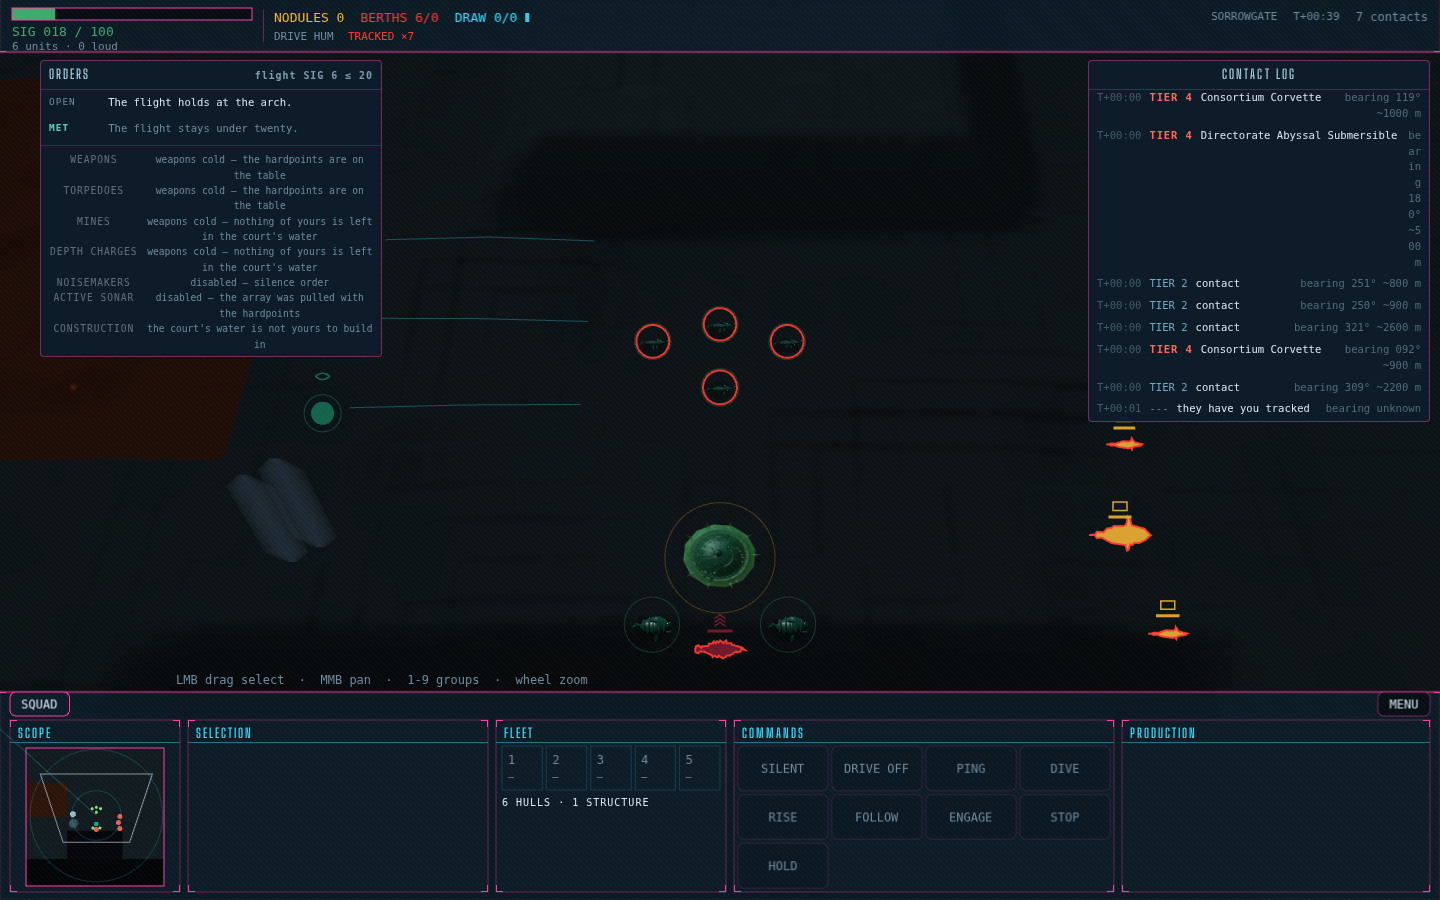
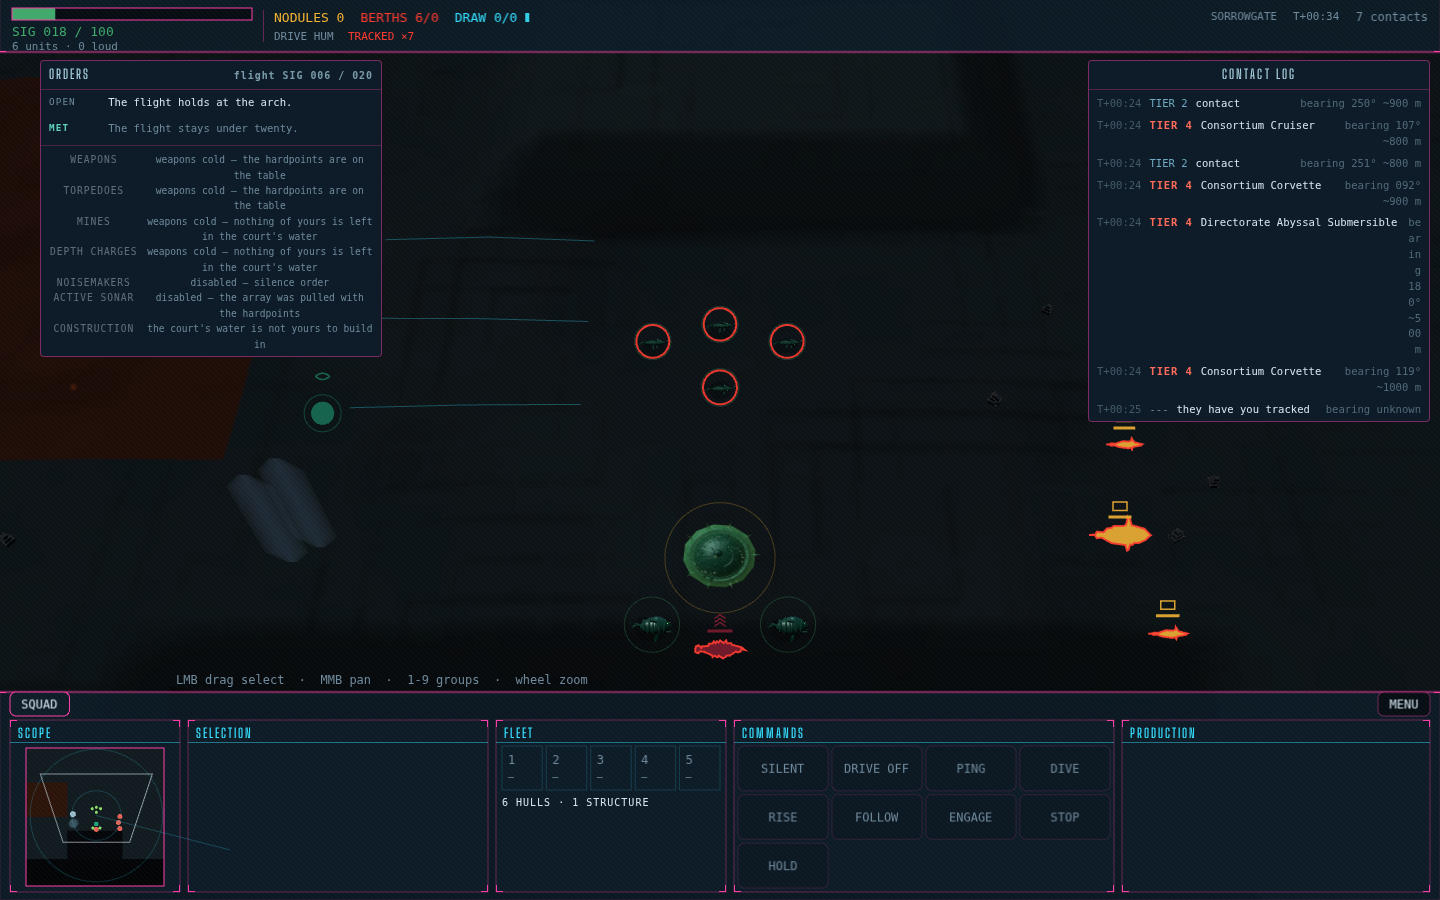
fix(mission): the chip states a value, not a claim that can be false
Round 2, on the critic's verdict. Four findings, all confirmed and all fixed.

The chip said `flight SIG 6 ≤ 25`, and in breach that renders a false
proposition — `flight SIG 26 ≤ 25` asserts something untrue at exactly
the moment the player most needs to read it, which CLAUDE.md calls
confusion rather than dread. docs/ui-ux.md §3 already fixes this
repository's form for a live SIG figure against a limit: `SIG 042 / 100`,
a value against its scale rather than a relation. The chip now follows
it, zero-padded for §3's own stated reason — the figure moves (the Dome's
watch reads 22 on its first pass and 5 after) inside a space-between
header, so an unpadded reading shuffles the row under itself every time a
digit comes or goes. Both new panel cases had passed a compliant reading
only, so the shape at the one interesting moment was untested; there is a
breach case and a digit-width case now.

BoundSig.peak justified rounding up by asserting that every
silenceCeilingSig is whole. Nothing held that. A ceiling of 7.5 authored
next month, with a bound peak of 7.2, would read 8 — a breach — while the
ledger forgave it, and all three guards stayed green. The registry loop
now holds the premise, and its converse: an array lent against a ceiling
of 100 would put `flight SIG 022 / 100` on screen, an order that is not
one. The sweep also brackets each mission's own authored ceiling, so the
numbers actually shipping are exercised for agreement rather than only
the ones the test invents.
[…]

diff --git a/packages/backend/test/silenceReadout.test.ts b/packages/backend/test/silenceReadout.test.ts
@@ -61,9 +61,11 @@ interface Pass {
  * Drive a mission a few Echo passes and keep the player's own snapshot and the
  * ledger's debt from each.
  *
- * Two passes is enough for everything here and matters for the suite's wall
- * clock: the mission tests already play whole missions out at 60 Hz and are
- * most of its time, and nothing asserted below needs a mission played.
+ * A handful of passes, never a mission played out: the mission tests already
+ * run whole missions at 60 Hz and are most of the suite's time, and nothing
+ * asserted below needs one. Three or four is enough because everything here is
+ * a property of a single pass — the reading beside the debt it produced —
+ * rather than of a mission's arc.
  */
 function passes(match: Match, playerSlot: number, count: number): Pass[] {
   const out: Pass[] = [];
@@ -97,6 +99,29 @@ describe('the silence order reads out the set it enforces (#623 §8)', () => {
         assert.ok(
           runsLedger(mission),
           `${mission.id} states a ceiling of ${mission.silenceCeilingSig} but lends no array`
+        );
+      }
+      if (runsLedger(mission)) {
+        // The premise the whole readout rests on, asserted rather than assumed.
+        // `BoundSig.peak` rounds *up* and claims that is safe because every
+        // ceiling is a whole number — `ceil(peak) > ceiling` and
+        // `peak > ceiling` then agree on every input. Author a ceiling of 7.5
+        // and that stops being true: a bound peak of 7.2 reads 8, which is over
+        // 7.5, while the ledger forgives it. Nothing else in the tree would
+        // notice, because the per-mission tests pin the five numbers shipping
+        // today and a sixth authored next month has no test until someone
+        // writes one — which is the gap this criterion exists to close.
+        assert.ok(
+          Number.isInteger(mission.silenceCeilingSig),
+          `${mission.id}: a ledger ceiling must be whole (see BoundSig.peak), got ${mission.silenceCeilingSig}`
+        );
+        // And the converse of the check above. 100 is the sentinel for "no
+        // ceiling"; a mission that lends an array against it keeps a ledger
+        // nothing can ever breach, and the panel would put `flight SIG 022 /
+        // 100` on screen — an order that is not one.
+        assert.ok(
+          mission.silenceCeilingSig < 100,
+          `${mission.id} lends an array against no ceiling at all`
         );
       }
       for (const { own } of passes(matchFor(mission), mission.playerSlot, 2)) {
@@ -160,15 +185,29 @@ describe('the silence order reads out the set it enforces (#623 §8)', () => {
     // nearest or down it reads a compliant 4 while the debt climbs.
     //
     // The sweep sits a point either side of every reading the order actually
-    // takes, because that is where the two roundings differ. Two things about
-    // it are scars rather than style. The ceilings are whole numbers fixed
-    // before the comparison and never derived from the rounded figure — a
-    // ceiling computed from the reading moves when the rounding does, and
-    // every rounding then passes its own test. And *every* reading is probed
-    // rather than the first: these missions open with a party still being
-    // seated and settle a pass later (First Arrival reads 16, then 4.33 for
-    // the rest), so a sweep around the opening figure brackets a number the
-    // order never holds again.
+    // takes, plus the mission's own authored ceiling. Three things about it are
+    // scars rather than style.
+    //
+    // The bracket is `reading ± 1` and the reading *is* rounded, which looks
+    // like the trap the first draft of this test fell into — a ceiling computed
+    // from the rounded figure moves when the rounding does, and every rounding
+    // passes its own test. It is not, and the reason is worth writing down:
+    // whichever of ceil, round or floor is in force, the figure shown is one of
+    // `floor(raw)` or `ceil(raw)`, so a ±1 bracket around it always contains
+    // `floor(raw)` — and `floor(raw)` is exactly the ceiling at which a
+    // fractional reading discriminates, because the ledger charges there
+    // (`raw > floor(raw)`) and only rounding up also reads as a breach. What
+    // the earlier draft got wrong was using a *single* derived ceiling, which
+    // could and did miss that point.
+    //
+    // *Every* reading is probed rather than the first: these missions open with
+    // a party still being seated and settle a pass later (First Arrival reads
+    // 16, then 4.33 for the rest), so a sweep around the opening figure
+    // brackets a number the order never holds again.
+    //
+    // And the mission's own `silenceCeilingSig` is in the set, so the number
+    // actually shipping is exercised for agreement rather than only the ones
+    // this test invented.
     let charged = 0;
     let forgiven = 0;
     let byAFraction = 0;
@@ -176,7 +215,7 @@ describe('the silence order reads out the set it enforces (#623 §8)', () => {
       if (!runsLedger(mission)) continue;
       const probes = passes(matchFor(mission), mission.playerSlot, PROBE_PASSES);
       assert.ok(probes.length > 0, `${mission.id} reads something to work from`);
-      const bracket = new Set([0, 100]);
+      const bracket = new Set([0, 100, mission.silenceCeilingSig]);
       for (const { own } of probes) {
         assert.ok(own.boundSig !== undefined, `${mission.id} reads on every pass`);
         for (const near of [own.boundSig.peak - 1, own.boundSig.peak, own.boundSig.peak + 1]) {

diff --git a/packages/frontend/test/missionPanel.test.ts b/packages/frontend/test/missionPanel.test.ts
@@ -155,13 +155,49 @@ describe('the objectives panel: how it announces itself', () => {
     // its order is 25. A reading drawn against the budget would read as a
     // breach of a rule nobody is enforcing, so when an order is in force the
     // budget is not what is shown.
-    const { rendered } = await panel(missionView({ sigBudget: 8 }), { peak: 6, ceiling: 25 });
+    const { rendered } = await panel(missionView({ sigBudget: 9 }), { peak: 6, ceiling: 25 });
     try {
       const chip = reads(rendered.byClass('objectives-ceiling'));
-      assert.match(chip, /flight SIG 6 ≤ 25/);
-      assert.equal(/8/.test(chip), false, 'the budget is not the rule and is not shown as one');
+      assert.match(chip, /flight SIG 006 \/ 025/);
+      assert.equal(/9/.test(chip), false, 'the budget is not the rule and is not shown as one');
     } finally {
       await rendered.unmount();
+    }
+  });
+
+  it('says nothing false at the one moment the rule is broken', async () => {
+    // The chip is a *value against its limit*, in §3's `SIG 042 / 100` form,
+    // and never a relation. A relation is a claim, and in breach the claim is
+    // false — `flight SIG 26 ≤ 25` asserts something untrue at exactly the
+    // moment the player most needs to read it, which CLAUDE.md calls confusion
+    // rather than dread. This is the case the compliant readings above cannot
+    // see, and the reason the form is what it is.
+    const { rendered } = await panel(missionView({ debtS: 1.2 }), { peak: 26, ceiling: 25 });
+    try {
+      const chip = reads(rendered.byClass('objectives-ceiling'));
+      assert.match(chip, /flight SIG 026 \/ 025/);
+      assert.equal(/≤|<=/.test(chip), false, 'a breach is not written as an inequality');
+    } finally {
+      await rendered.unmount();
+    }
+  });
+
+  it('never lets the reading shuffle the header under itself', async () => {
+    // §3 spends a whole spec row on zero-padding "so the digit count never
+    // shifts", and it earns it here: the Dome's watch reads 22 on its first
+    // pass and 5 for the rest of the mission, inside a `space-between` header.
+    // Unpadded, the row would move every time a digit came or went.
+    const wide = await panel(missionView(), { peak: 22, ceiling: 30 });
+    const narrow = await panel(missionView(), { peak: 5, ceiling: 30 });
+    try {
+      assert.equal(
+        reads(wide.rendered.byClass('objectives-ceiling')).length,
+        reads(narrow.rendered.byClass('objectives-ceiling')).length,
+        'a one-digit reading is the same width as a two-digit one'
+      );
+    } finally {
+      await wide.rendered.unmount();
+      await narrow.rendered.unmount();
     }
   });
 
@@ -173,7 +209,7 @@ describe('the objectives panel: how it announces itself', () => {
     // this belongs.
     const { rendered } = await panel(missionView(), { peak: 6, ceiling: 20 });
     try {
-      assert.match(reads(rendered.byClass('objectives-ceiling')), /flight SIG 6 ≤ 20/);
+      assert.match(reads(rendered.byClass('objectives-ceiling')), /flight SIG 006 \/ 020/);
       assert.equal(
         /flight SIG/.test(deepText(rendered.byClass('objectives-body'))),
         false,

diff --git a/packages/frontend/src/game/MissionPanel.tsx b/packages/frontend/src/game/MissionPanel.tsx
@@ -43,6 +43,16 @@ const STATUS_CLASS: Record<ObjectiveStatus, string> = {
   [ObjectiveStatus.Failed]: 'failed',
 };
 
+/**
+ * A SIG figure in §3's form — three digits, zero-padded, "so the digit count
+ * never shifts".
+ *
+ * Formatting and not arithmetic, which is the line this file holds: the value
+ * is the server's and is rendered unchanged, the same way `Math.ceil` rounds
+ * the debt below without computing it.
+ */
+const sigDigits = (sig: number) => String(sig).padStart(3, '0');
+
 /** The player's own buttons, named the way the command bar names them. */
 const ABILITY_LABEL: Record<MissionAbility, string> = {
   weapons: 'weapons',
@@ -107,6 +117,17 @@ export function MissionPanel({ view, boundSig, onFocus, onCommanderAbility }: Mi
             nearest to hand — the meter — measures a set the rule does not
             bind.
 
+            §3's form, `SIG 042 / 100`, and not an inequality. A relation is a
+            claim, and at the one moment the chip matters — the breach — the
+            claim would be **false**: `flight SIG 26 ≤ 25` says something untrue
+            precisely when the player most needs to read it, which is confusion
+            rather than dread. A value against its limit is never false. The
+            zero-padding is §3's too, and it is load-bearing here rather than
+            decorative: this figure moves (the Dome's watch reads 22 on its
+            first pass and 5 thereafter) and it sits in a `space-between`
+            header, so an unpadded reading would shuffle the row under itself
+            every time a digit came or went.
+
             Where none is, this stays the mission's SIG budget: design metadata
             shown as a ceiling, never a live threshold, and nothing fails for
             crossing it (docs/campaign.md §10). The three ledger missions whose
@@ -122,7 +143,7 @@ export function MissionPanel({ view, boundSig, onFocus, onCommanderAbility }: Mi
           <span className="objectives-ceiling">flight SIG ≤ {view.sigBudget}</span>
         ) : (
           <span className="objectives-ceiling">
-            flight SIG {boundSig.peak} ≤ {boundSig.ceiling}
+            flight SIG {sigDigits(boundSig.peak)} / {sigDigits(boundSig.ceiling)}
           </span>
         )}
       </header>

diff --git a/packages/shared/src/types.ts b/packages/shared/src/types.ts
@@ -969,6 +969,11 @@ export interface BoundSig {
    * reads 25 and is not. Rounding to nearest would show a compliant 25 over a
    * flight the court is already charging for.
    *
+   * That "every ceiling is whole" is a **premise**, and it is held rather than
+   * assumed: `silenceReadout.test.ts` asserts it over the mission registry, so
+   * a ceiling of 7.5 authored next month fails there rather than quietly
+   * putting a breach on screen over a flight nobody is charging for.
+   *
    * Integral on the wire is also why the delta fires when the *reading* moves
    * rather than every time a hull's SIG wobbles in the third decimal.
    */

diff --git a/packages/frontend/test/gameCanvas.test.ts b/packages/frontend/test/gameCanvas.test.ts
@@ -428,7 +428,7 @@ describe('the shell: what it wires to what', () => {
 
       assert.equal(
         ceilingChip(world),
-        'flight SIG 6 ≤ 20',
+        'flight SIG 006 / 020',
         'the reading off the snapshot reached the panel beside the ceiling it is held to'
       );
     } finally {

diff --git a/docs/ui-ux.md b/docs/ui-ux.md
@@ -586,7 +586,12 @@ something new, and a log role would re-announce the whole panel every time a cou
   for the breach, never from the SIG meter, which is a fleet instrument on §3's fixed stops
   and measures a set the order does not bind
   ([mission-sorrowgate.md](mission-sorrowgate.md) §4). A ceiling with no reading beside it
-  leaves the player nothing to check the one numeric rule of the mission against. Where no
+  leaves the player nothing to check the one numeric rule of the mission against. It is
+  written in §3's form — `flight SIG 006 / 020`, zero-padded so the digit count never
+  shifts — and deliberately **not** as an inequality: a relation is a claim, and in breach
+  the claim would be false at exactly the moment the player most needs to read it. The
+  padding is load-bearing rather than decorative, because this figure moves inside a
+  header laid out end to end. Where no
   order is in force the panel shows the mission's SIG budget instead, which
   [campaign.md](campaign.md) §10 keeps as a design note and not a rule: three of the five
   orders shipping today are held to a different figure than the budget their mission was
